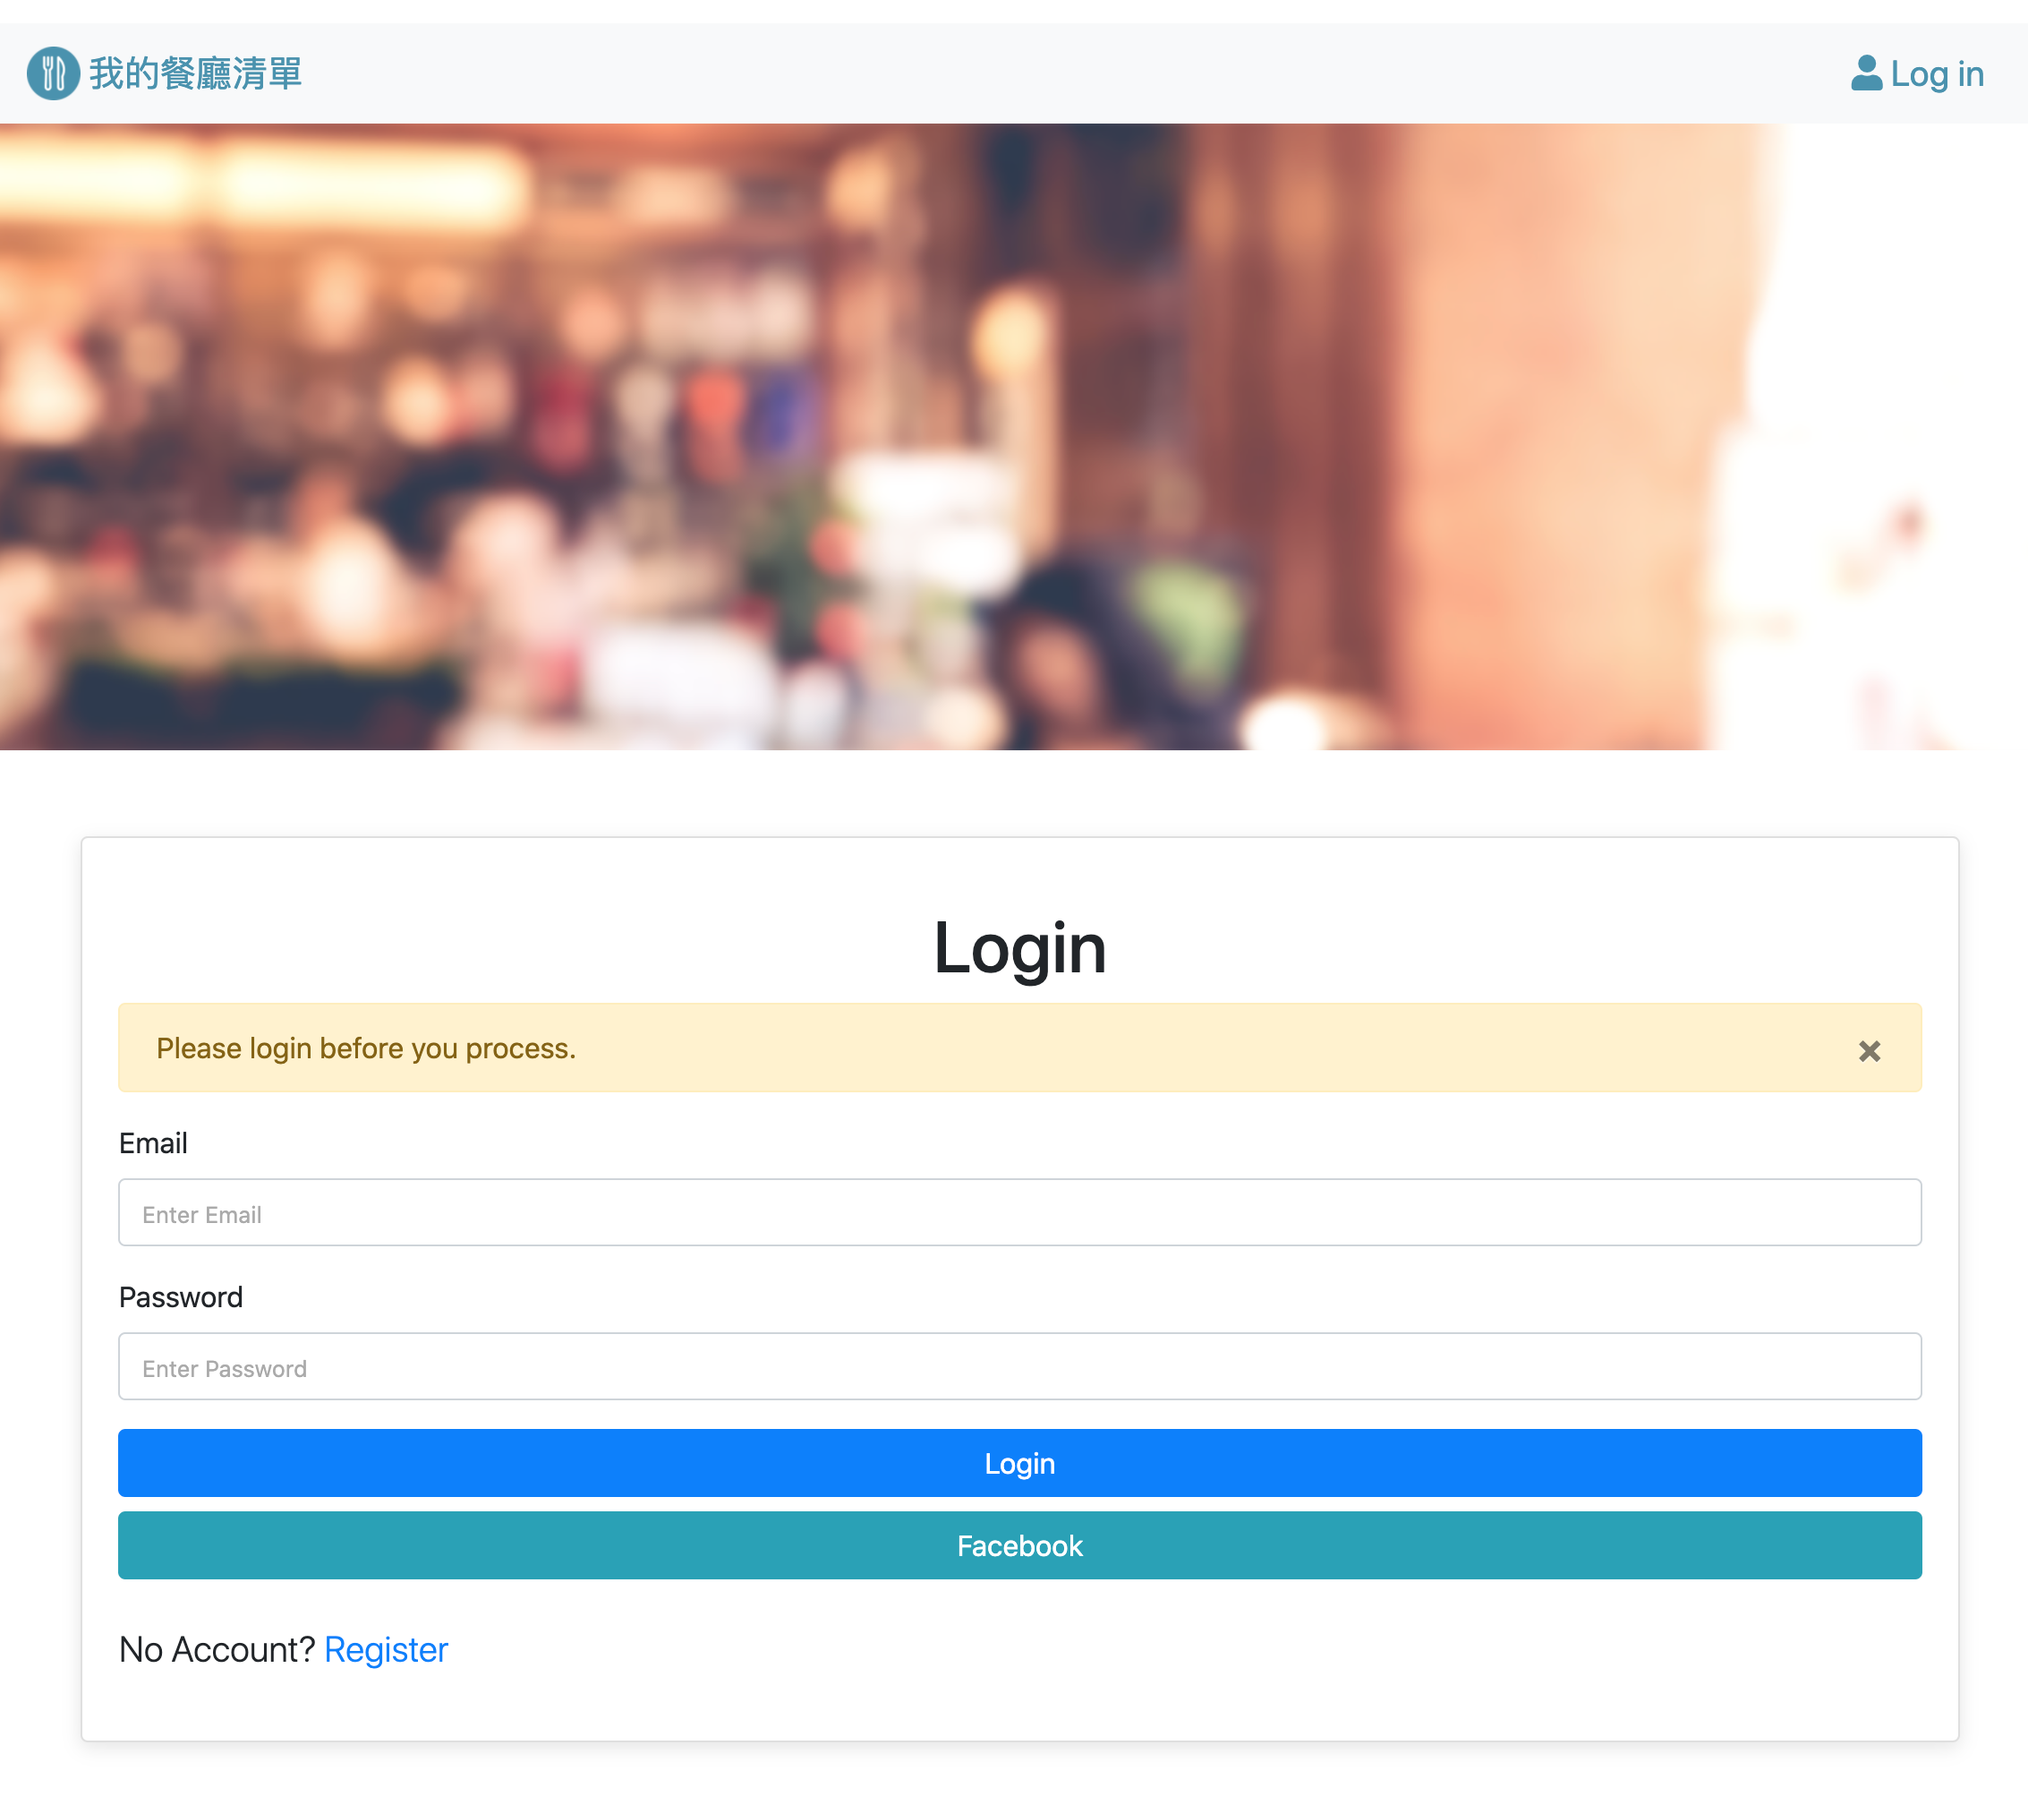
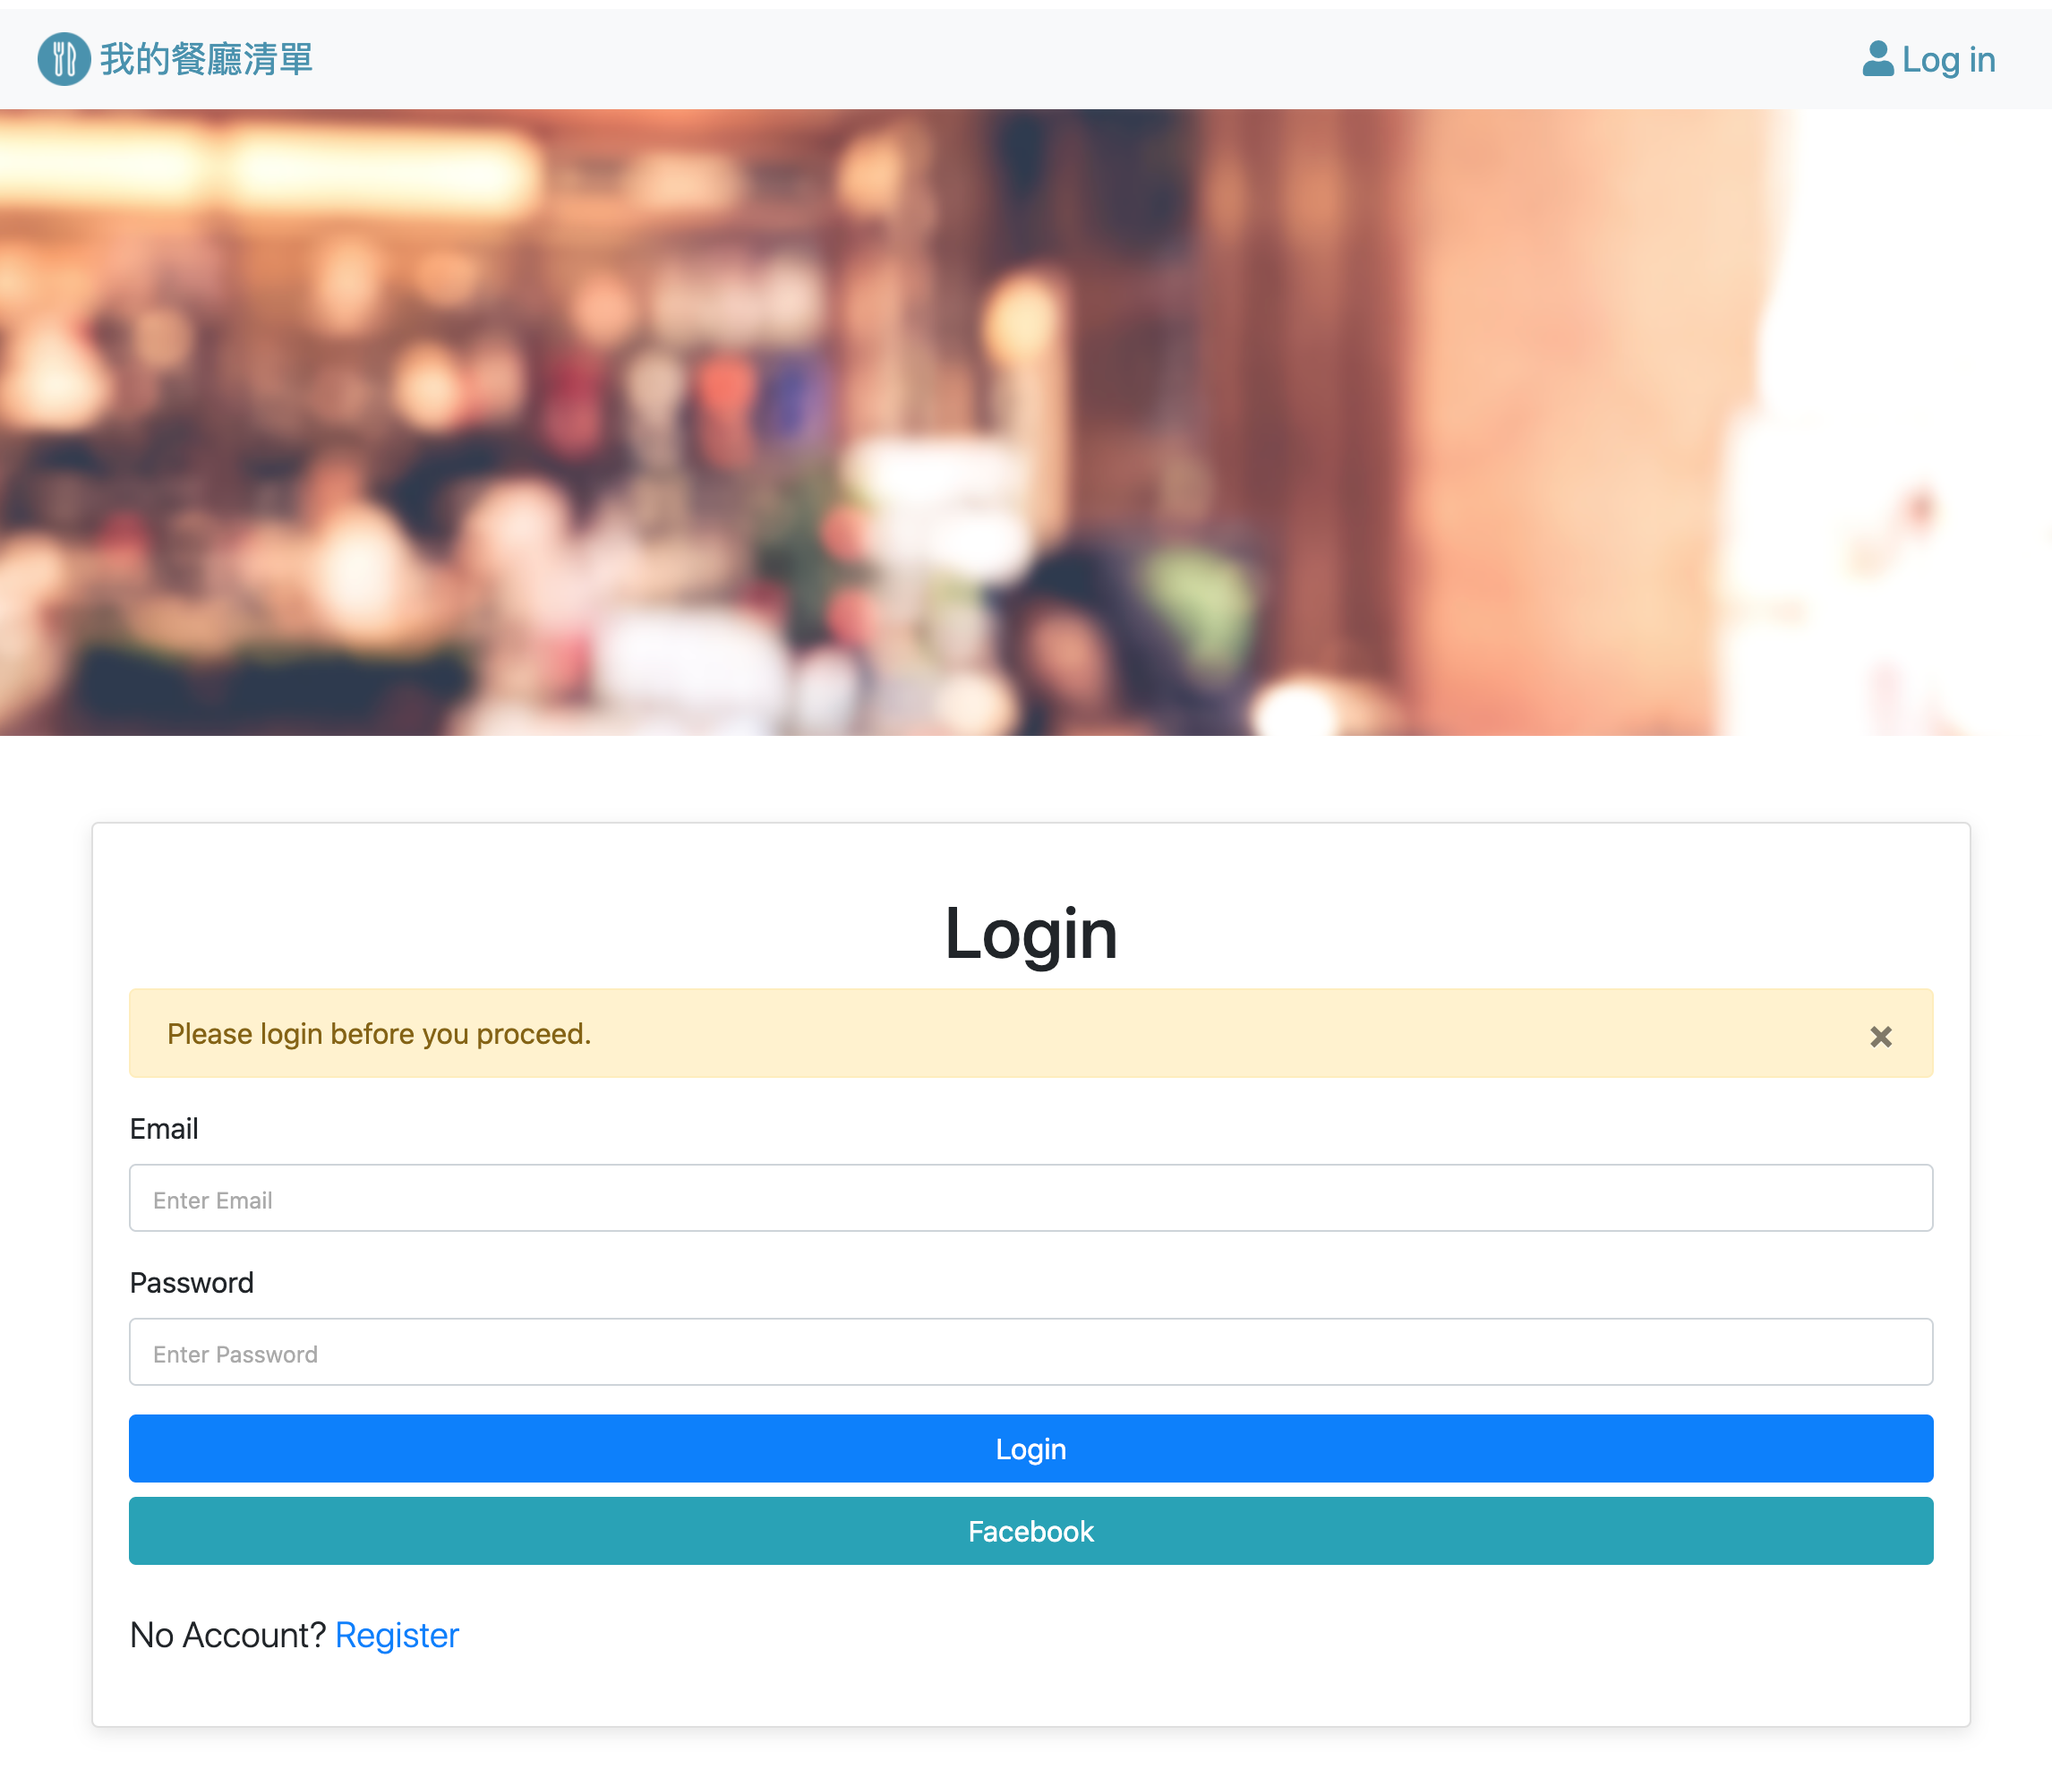
correct typo in error message

diff --git a/middleware/auth.js b/middleware/auth.js
@@ -3,7 +3,7 @@ module.exports = {
     if (req.isAuthenticated()) {
       return next();
     }
-    req.flash("warning_msg", "Please login before you process.");
+    req.flash("warning_msg", "Please login before you proceed.");
     res.redirect("/users/login");
   },
 };
